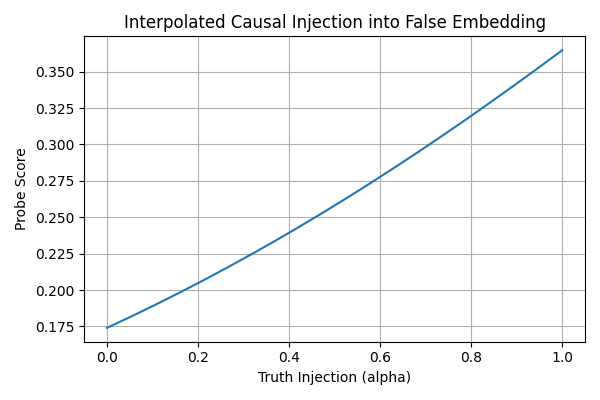
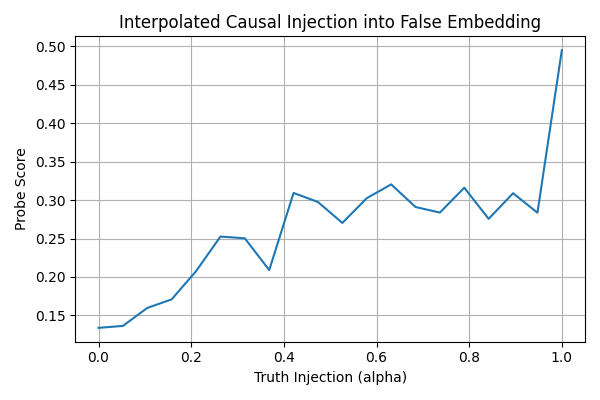
Switches linear classifier up a little

diff --git a/20250422 Toy Model/main.py b/20250422 Toy Model/main.py
@@ -8,6 +8,7 @@
 # ]
 # ///
 
+from sklearn.linear_model import LogisticRegression
 import math
 from sklearn.manifold import TSNE
 from sklearn.metrics import confusion_matrix, ConfusionMatrixDisplay
@@ -29,6 +30,14 @@ dataset_source = "truthfulqa"  # 'truthfulqa' or 'boolq' or 'both'
 bert_model_name = "bert-large-uncased"  # or "bert-base-uncased"
 
 use_control_tasks = True
+
+
+use_dropout = True
+dropout_rate = 0.2
+use_weight_decay = True
+weight_decay_value = 1e-4
+# Set to True to use sklearn's LogisticRegression instead of torch Linear
+use_sklearn_logreg = True
 
 # --------------------
 # ✅ Device setup (MPS on Mac)
@@ -142,29 +151,41 @@ test_hidden_states, test_labels = get_hidden_states(test_examples)
 class LinearProbe(nn.Module):
     def __init__(self, dim):
         super().__init__()
+        self.dropout = nn.Dropout(
+            dropout_rate) if use_dropout else nn.Identity()
         self.linear = nn.Linear(dim, 1)
 
     def forward(self, x):
+        x = self.dropout(x)
         return torch.sigmoid(self.linear(x)).squeeze(-1)
-
 # --------------------
 # ✅ Train linear probe on one layer
 # --------------------
 
 
 def train_probe(features, labels, epochs=100, lr=1e-2):
-    probe = LinearProbe(features.shape[1]).to(device)
-    criterion = nn.BCELoss()
-    optimizer = optim.Adam(probe.parameters(), lr=lr)
+    if use_sklearn_logreg:
+        # Features must be on CPU
+        clf = LogisticRegression(max_iter=1000)
+        clf.fit(features.cpu().numpy(), labels.cpu().numpy())
+        return clf, None  # loss is not returned for sklearn
+    else:
+        probe = LinearProbe(features.shape[1]).to(device)
+        criterion = nn.BCELoss()
+        optimizer = optim.Adam(
+            probe.parameters(),
+            lr=lr,
+            weight_decay=weight_decay_value if use_weight_decay else 0.0
+        )
 
-    for epoch in range(epochs):
-        optimizer.zero_grad()
-        outputs = probe(features)
-        loss = criterion(outputs, labels.float())
-        loss.backward()
-        optimizer.step()
+        for epoch in range(epochs):
+            optimizer.zero_grad()
+            outputs = probe(features)
+            loss = criterion(outputs, labels.float())
+            loss.backward()
+            optimizer.step()
 
-    return probe, loss.item()
+        return probe, loss.item()
 
 
 # --------------------
